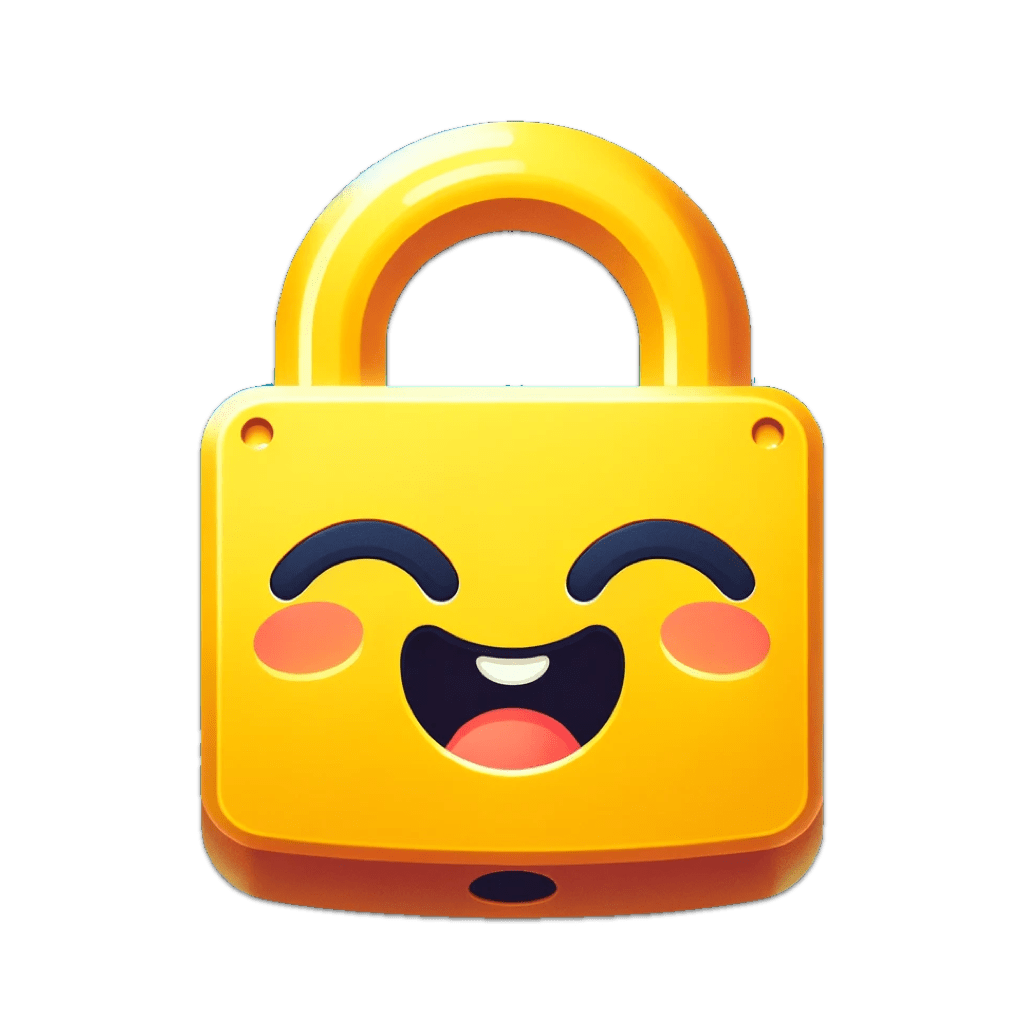
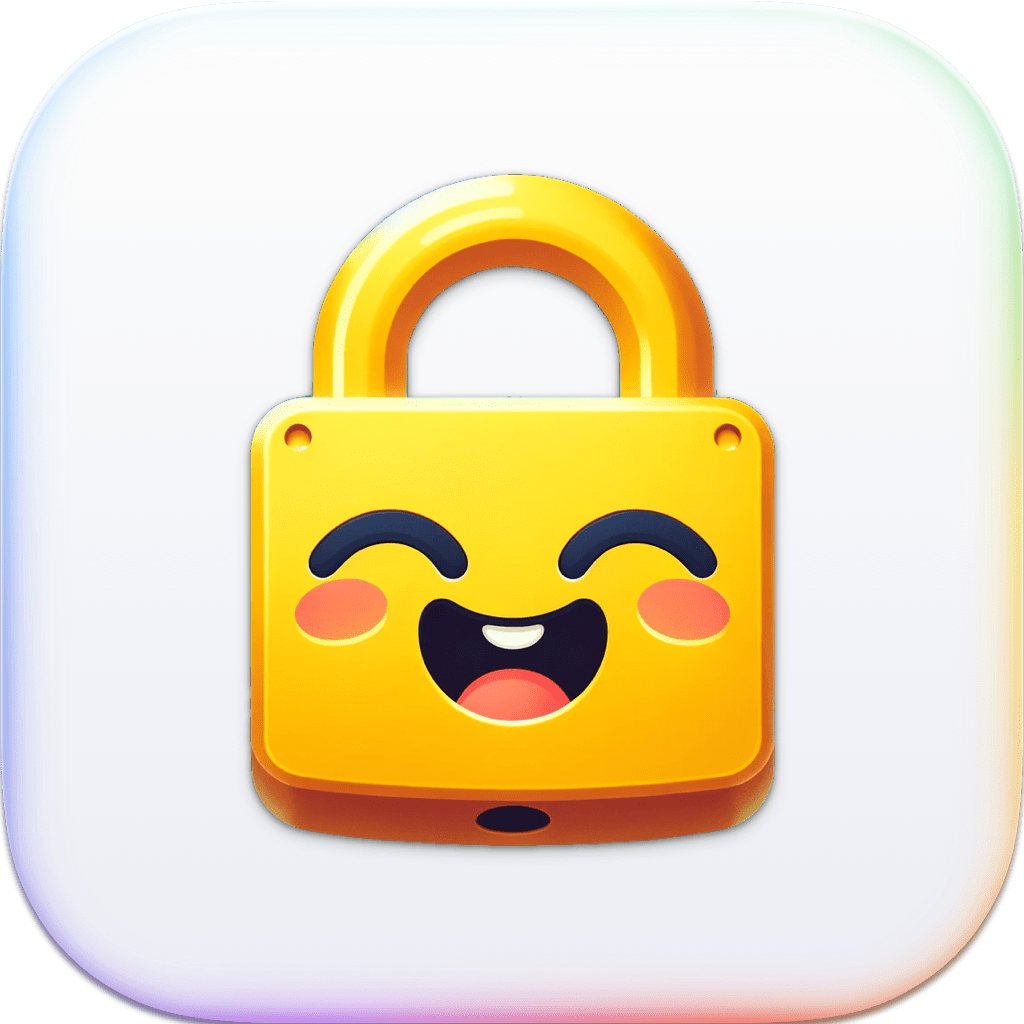
Add MediaKit

diff --git a/_sass/kankoda/tags.scss b/_sass/kankoda/tags.scss
@@ -1,11 +1,3 @@
-h2 {
-  .tag {
-    font-size: small;
-    vertical-align: middle;
-    margin-right: 20px;
-  }
-}
-
 .tag, .tag:visited {
   display: inline-block;
   margin-right: 5px;
@@ -39,27 +31,10 @@ h2 {
   border: solid 1px #ddaa00;
 }
 
-.tag.new {
-  color: white !important;
-  background-color: darkorange;
-  border: solid 1px darkorange;
-}
-
-.tag.releases, .tag.slides, .tag.video {
+.tag.releases, .tag.slides {
   color: black !important;
   background-color: white;
   border: solid 1px black;
-}
-
-.tag.conferences {
-  color: white !important;
-  background-color: darkgreen;
-  border: solid 1px darkgreen;
-}
-
-.tag.sdks {
-  background-color: maroon;
-  border: solid 1px maroon;
 }
 
 .tag.swift {

diff --git a/_sass/kankoda/grid.scss b/_sass/kankoda/grid.scss
@@ -40,6 +40,11 @@ p + .grid {
   }
 }
 
+.grid.icons.liquid-glass img, .grid.icons .liquid-glass {
+  border-radius: none !important;
+  box-shadow: none;
+}
+
 .grid.col2 { 
   grid-template-columns: repeat(2, 1fr);
 }

diff --git a/index.md b/index.md
@@ -47,7 +47,11 @@ stockholm: https://www.google.com/maps/place/Stockholm/@59.3258414,17.70188,10z/
       <hr />
       <section class="opensource">
         {% include kankoda/titles/section title="Open Source" link="/opensource" %}
-        {% include kankoda/grids/grid items=site.data.open-source type="icons" class="open-source" limit=4 %}
+        {% include kankoda/grids/grid items=site.data.open-source type="icons" class="liquid-glass" limit=4 %}
+      </section>
+      <section class="sdks">
+        {% include kankoda/titles/section title="SDKs" link="/apps" %}
+        {% include kankoda/grids/grid items=site.data.sdks type="icons" limit=4 %}
       </section>
       <section class="apps">
         {% include kankoda/titles/section title="Apps" link="/apps" %}
